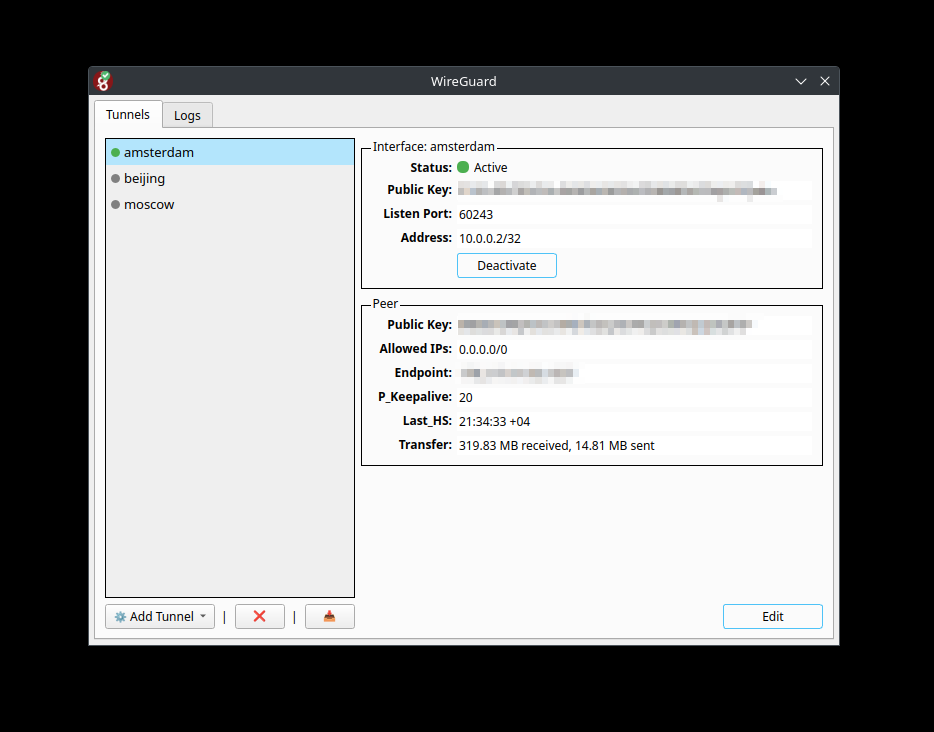
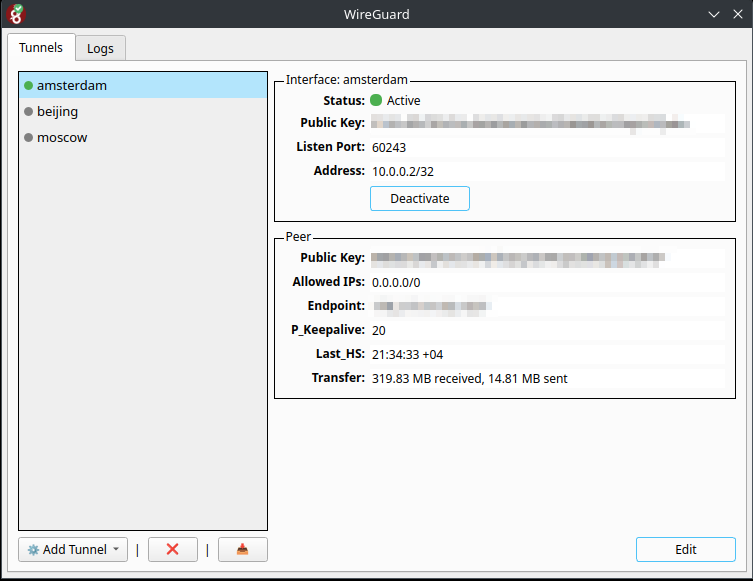
fixed image

diff --git a/README.md b/README.md
@@ -1,7 +1,7 @@
 <div align="center">
 
 <picture>
-  <img alt="logo" src="/resources/images/application.png" width="50%" height="50%">
+  <img alt="logo" src="/resources/images/application.png" width="70%" height="70%">
 </picture>
 
 **wireguard-linux**: lightweight desktop application for managing WireGuard tunnels with an interface inspired by the official [wireguard-windows](https://github.com/WireGuard/wireguard-windows).
